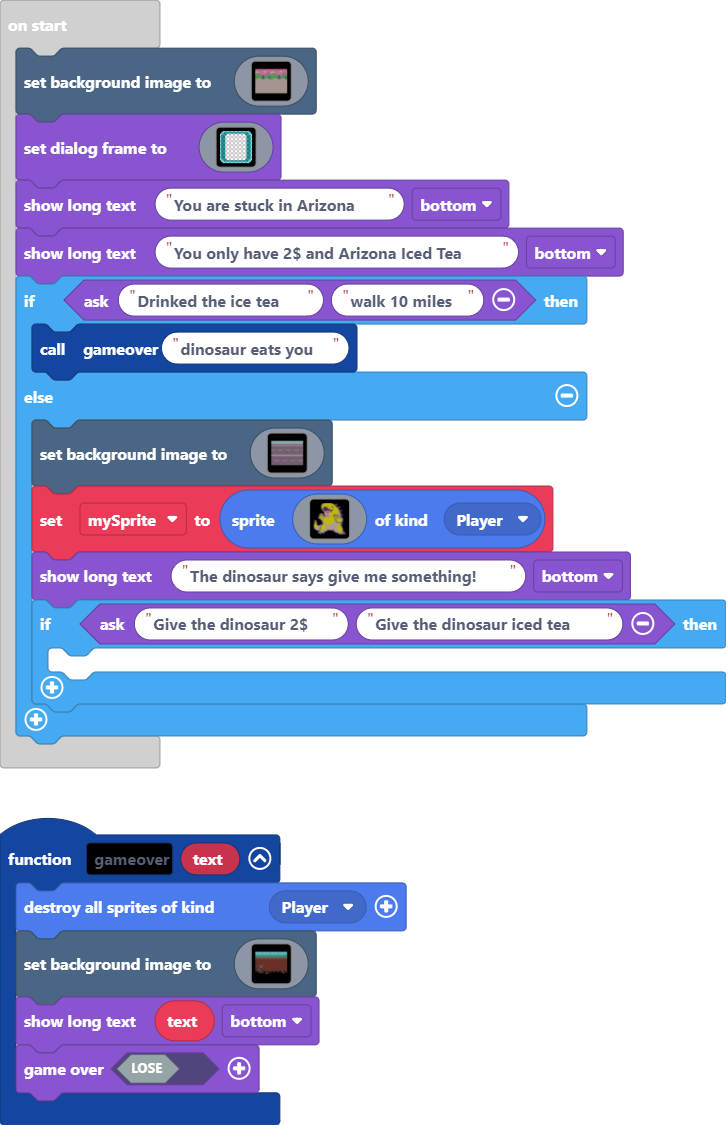
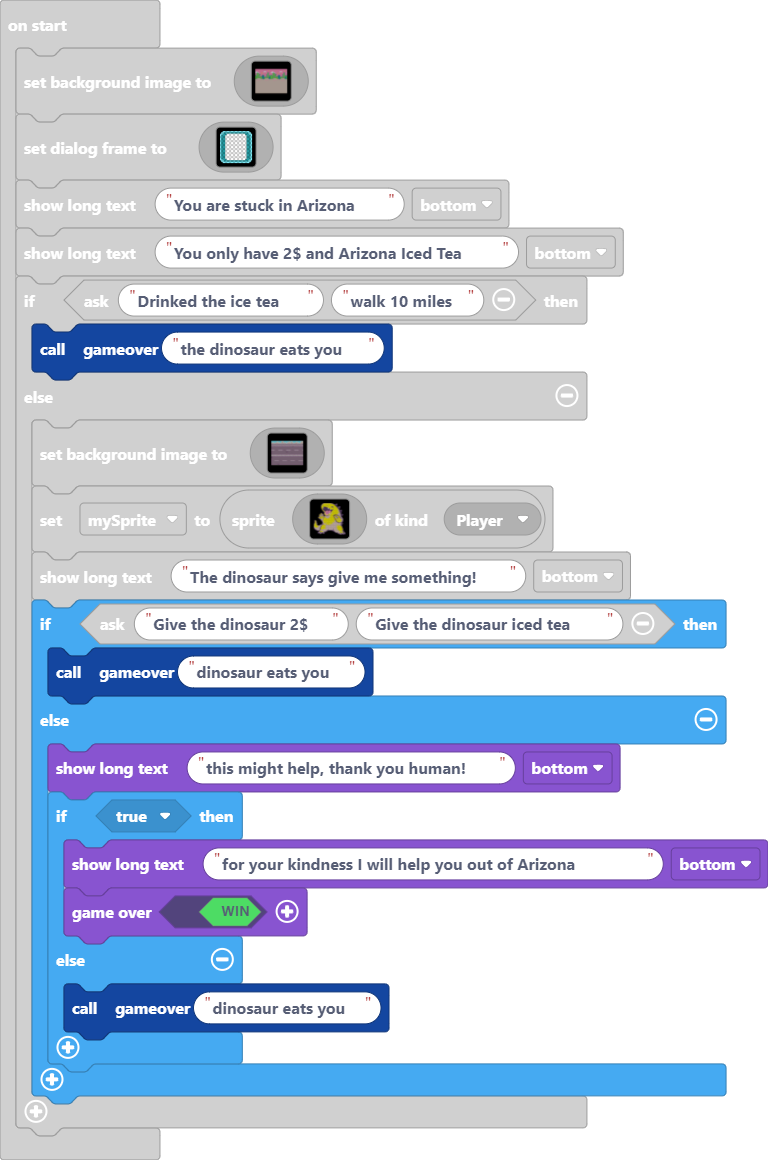
finished game

diff --git a/main.ts b/main.ts
@@ -277,7 +277,7 @@ game.setDialogFrame(img`
 game.showLongText("You are stuck in Arizona", DialogLayout.Bottom)
 game.showLongText("You only have 2$ and Arizona Iced Tea", DialogLayout.Bottom)
 if (game.ask("Drinked the ice tea", "walk 10 miles")) {
-    gameover("dinosaur eats you")
+    gameover("the dinosaur eats you")
 } else {
     scene.setBackgroundImage(img`
         9999999999999999999999999999999999999999999999999999999999999999999999999999999999999999999999999999999999999999999999999999999999999999999999999999999999999999
@@ -481,6 +481,14 @@ if (game.ask("Drinked the ice tea", "walk 10 miles")) {
         `, SpriteKind.Player)
     game.showLongText("The dinosaur says give me something!", DialogLayout.Bottom)
     if (game.ask("Give the dinosaur 2$", "Give the dinosaur iced tea")) {
-    	
+        gameover("dinosaur eats you")
+    } else {
+        game.showLongText("this might help, thank you human!", DialogLayout.Bottom)
+        if (true) {
+            game.showLongText("for your kindness I will help you out of Arizona", DialogLayout.Bottom)
+            game.over(true)
+        } else {
+            gameover("dinosaur eats you")
+        }
     }
 }
